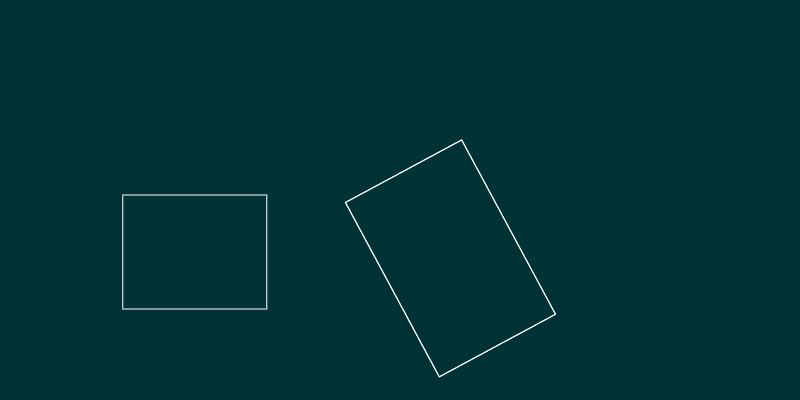
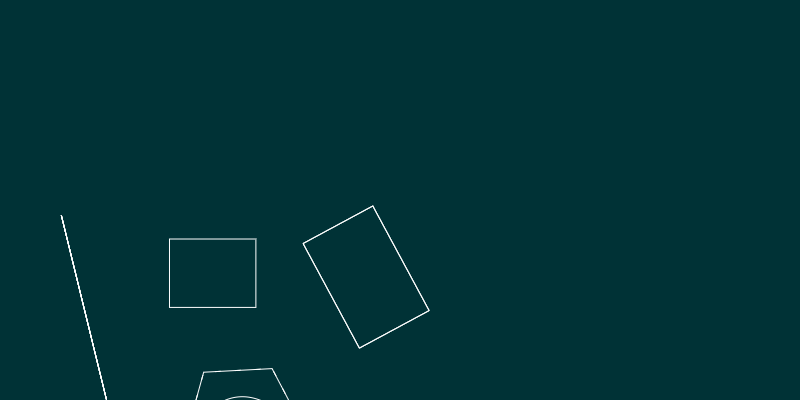
added arc, fixed routing, added crlt+s

diff --git a/front/src/engine/engine.ts b/front/src/engine/engine.ts
@@ -18,6 +18,8 @@ import { clamp, fastRounding }           from "./utils/math";
 import colors                            from "./config/colors";
 import Layer                             from "./types/Layer";
 import DXFSerializer from "./utils/DXFSerializer";
+import Arc from "./shapes/arc";
+import { Emitter } from "mitt";
 
 /**
  * Possible engine states
@@ -87,6 +89,7 @@ export default class Engine {
     public engineState:     EngineState   = EngineState.SELECT;
     public curTypeToDraw:   Shapes        = Shapes.NONE;
     private cursorIcon: any;
+    private emitter: Emitter | undefined;
     private fps                           = 0;
     private fpsMeasurements: number[]     = [];
 
@@ -103,12 +106,13 @@ export default class Engine {
      * @param width optional width of the viewport
      * @param height optonal height of the viewport
      */
-    constructor(viewport: HTMLDivElement, width?: number, height?: number) {
+    constructor(viewport: HTMLDivElement, emitter?: Emitter, width?: number, height?: number) {
         this.viewport      = viewport;
         this.canvas        = viewport.querySelector(".canvas") as HTMLCanvasElement;
         this.canvasUI      = viewport.querySelector(".canvas-ui") as HTMLCanvasElement;
         this.ctx           = this.canvas.getContext("2d", { alpha: false });
         this.ctxUI         = this.canvasUI.getContext("2d");
+        this.emitter = emitter;
 
         if (this.ctx === null || this.ctxUI === null) throw new Error("An error has occured while getting context from canvas");
         
@@ -395,6 +399,14 @@ export default class Engine {
                     this.copyBuffer = [];
                     break;
                 }
+                case "KeyS": {
+                    this.emitter?.emit("save");
+                    break;
+                }
+                case "KeyO": {
+                    this.emitter?.emit("load");
+                    break;
+                }
                 case "Equal":
                     this.scale = clamp(this.scale += 2, 3, 200);
                     break;
@@ -472,6 +484,9 @@ export default class Engine {
                     case Shapes.BEZIER:
                         this.tempShape = new Bezier();
                         break;
+                    case Shapes.ARC:
+                        this.tempShape = new Arc();
+                        break;
                     case Shapes.POLYGON: {
                         // not the most elegant solution
                         const verticies = prompt("Введите число вершин", "4");
@@ -517,29 +532,30 @@ export default class Engine {
                     this.tempShape.color = "#fff";
 
                     this.tempShape.setNodeColor(NodeColors.INACTIVE);
+                    this.layers[this.getLayerIndex].shapes.push(this.tempShape);
+                    // switch(this.curTypeToDraw) {
+                    //     case Shapes.LINE:
+                    //         this.layers[this.getLayerIndex].shapes.push(this.tempShape)
+                    //         break;
+                    //     case Shapes.RECT:
+                    //         this.layers[this.getLayerIndex].shapes.push(this.tempShape)
+                    //         break;
+                    //     case Shapes.CIRCLE:
+                    //         this.layers[this.getLayerIndex].shapes.push(this.tempShape)
+                    //         break;
+                    //     case Shapes.ELLIPSE:
+                    //         this.layers[this.getLayerIndex].shapes.push(this.tempShape)
+                    //         break;
+                    //     case Shapes.BEZIER:
+                    //         this.layers[this.getLayerIndex].shapes.push(this.tempShape)
+                    //         break;
+                    //     case Shapes.POLYGON:
+                    //         this.layers[this.getLayerIndex].shapes.push(this.tempShape)
+                    //         break;
 
-                    switch(this.curTypeToDraw) {
-                        case Shapes.LINE:
-                            this.layers[this.getLayerIndex].shapes.push(this.tempShape)
-                            break;
-                        case Shapes.RECT:
-                            this.layers[this.getLayerIndex].shapes.push(this.tempShape)
-                            break;
-                        case Shapes.CIRCLE:
-                            this.layers[this.getLayerIndex].shapes.push(this.tempShape)
-                            break;
-                        case Shapes.ELLIPSE:
-                            this.layers[this.getLayerIndex].shapes.push(this.tempShape)
-                            break;
-                        case Shapes.BEZIER:
-                            this.layers[this.getLayerIndex].shapes.push(this.tempShape)
-                            break;
-                        case Shapes.POLYGON:
-                            this.layers[this.getLayerIndex].shapes.push(this.tempShape)
-                            break;
-                        default:
-                            break;
-                    }
+                    //     default:
+                    //         break;
+                    // }
                     
                     this.tempShape = null;
                 }
@@ -946,13 +962,6 @@ export default class Engine {
         // this.ctx.restore();
 
         this.ctx.save();
-            // can't use forEach, TS is screaming abount ctx being possibly null
-            // what a bloody idiot
-            // for (const shape of this.currentLayer) {
-            //     shape.renderSelf(this.ctx);
-            //     shape.renderNodes(this.ctx);
-            // }
-
             for (const layer of this.layers) {
                 for (const shape of layer.shapes) {
                     shape.renderSelf(this.ctx, colors.get(layer.layerColor));

diff --git a/front/src/engine/shapes/arc.ts b/front/src/engine/shapes/arc.ts
@@ -8,23 +8,41 @@ export default class Arc extends Shape {
     }
 
     toDXF(drw: DXFWriter): void {
-        throw new Error("Method not implemented.");
+        // throw new Error("Method not implemented.");
+        const sv = this.nodes[0].getPosition;
+
+        const ev1 = this.nodes[1].getPosition;
+        const ev2 = this.nodes[2].getPosition;
+
+        const radius = ev1.subtract(sv).mag();
+
+        const a = ev1.subtract(sv);
+        const b = new Vec2(sv.x + 1, sv.y).subtract(sv);
+
+        const angle1 = Math.atan2(a.y, a.x);
+        const angle2 = Math.atan2(b.y, b.x);
+
+        const angle = angle1 - angle2;
+
+        const c = ev2.subtract(sv);
+        const angle3 = Math.atan2(c.y, c.x);
+        const _angle = angle1 - angle3;
+
+        drw.addArc(sv.x, sv.y, radius, angle * (180/Math.PI), (angle - _angle) * (180/Math.PI));
     }
 
     renderSelf(ctx: CanvasRenderingContext2D, color?: string) {
         if (this.nodes.length <= 1) return;
 
-        if (this.nodes.length < 3) {
+        if (this.nodes.length === 2) {
             const radius = this.nodes[0].getPosition.subtract(this.nodes[1].getPosition).mag();
 
             const sv: Vec2 = this.WorldToScreen(this.nodes[0].getPosition);
-            const mv: Vec2 = this.WorldToScreen(this.nodes[1].getPosition);
-            const ev: Vec2 = this.WorldToScreen(this.nodes[2].getPosition);
-
-            ctx.strokeStyle = this.isSelected ? "red" : color ? color : this.color;
+            const ev: Vec2 = this.WorldToScreen(this.nodes[1].getPosition);
 
             ctx.save();
                 ctx.setLineDash([5, 15]);
+                ctx.strokeStyle = this.color;
                 ctx.beginPath();
                 ctx.moveTo(sv.x, sv.y);
                 ctx.lineTo(ev.x, ev.y);
@@ -34,10 +52,53 @@ export default class Arc extends Shape {
 
             ctx.save();
                 ctx.fillStyle = "";
+                ctx.strokeStyle = this.color;
                 ctx.setLineDash([]);
                 ctx.beginPath();
                 ctx.arc(sv.x, sv.y, radius * Shape.worldScale * Shape.worldGrid, 0, 2 * Math.PI, false);
                 ctx.closePath();
+                ctx.stroke();
+            ctx.restore();
+        }
+
+        if (this.nodes.length === 3) {
+            const sv = this.WorldToScreen(this.nodes[0].getPosition);
+            const ev1 = this.WorldToScreen(this.nodes[1].getPosition);
+            const ev2 = this.WorldToScreen(this.nodes[2].getPosition);
+
+            const radius = this.nodes[1].getPosition.subtract(this.nodes[0].getPosition).mag();
+
+            const a = ev1.subtract(sv);
+            const b = new Vec2(sv.x + 1, sv.y).subtract(sv);
+
+            const angle1 = Math.atan2(a.y, a.x);
+            const angle2 = Math.atan2(b.y, b.x);
+
+            const angle = angle1 - angle2;
+
+            const c = ev2.subtract(sv);
+            const angle3 = Math.atan2(c.y, c.x);
+            const _angle = angle1 - angle3;
+
+
+            ctx.strokeStyle = this.isSelected ? "red" : color ? color : this.color;
+
+            // ctx.save();
+            //     ctx.setLineDash([5, 15]);
+            //     ctx.beginPath();
+            //     ctx.moveTo(sv.x, sv.y);
+            //     ctx.lineTo(ev1.x, ev1.y);
+            //     ctx.closePath();
+            //     ctx.stroke();
+            // ctx.restore();
+
+            ctx.save();
+                ctx.fillStyle = "";
+                ctx.setLineDash([]);
+                // ctx.beginPath();
+                ctx.moveTo(ev1.x, ev1.y);
+                ctx.arc(sv.x, sv.y, radius * Shape.worldScale * Shape.worldGrid, angle, angle - _angle, false);
+                // ctx.closePath();
                 ctx.stroke();
             ctx.restore();
         }

diff --git a/front/src/views/User/ProjectEditor.vue b/front/src/views/User/ProjectEditor.vue
@@ -235,7 +235,7 @@
         },
         mounted() {
             try {
-                this.engine = new Engine(this.$refs.viewport as HTMLDivElement);
+                this.engine = new Engine(this.$refs.viewport as HTMLDivElement, this.$emitter);
                 if (this.engine.init()) {
                     this.engine.start();
                     this.loadProject();
@@ -244,6 +244,10 @@
             } catch (err) {
                 console.error(err);
             }
+
+            this.$emitter.on("save", this.saveProject);
+            this.$emitter.on("load", this.loadProject);
+            // document.body.addEventListener("")
         },
         beforeUnmount() {
             this.engine.releaseEngine();
@@ -274,14 +278,13 @@
         },
         methods: {
             goBack() {
-                this.$router.push(`/${this.$store.getters.getUser._id}/projects`);
+                this.$router.push(`/users/${this.$store.getters.getUser._id}/projects`);
             },
             async saveProject() {
                 try {
                     const data = this.engine.save();
                     const id = this.$route.params.id;
                     const res = await axios.patch(`projects/save`, { id, data });
-                    console.log(res);
 
                     this.$flashMessage.show({
                         type: 'success',

diff --git a/front/src/views/Login.vue b/front/src/views/Login.vue
@@ -49,7 +49,7 @@
             async submitHandler() {
                  try {
                     await this.$store.dispatch("logIn", this.form);
-                    this.$router.push(`/${this.$store.getters.getUser._id}/projects`);
+                    this.$router.push(`/users/${this.$store.getters.getUser._id}/projects`);
                 } catch (err) {
                     console.error(err);
                     this.$flashMessage.show({

diff --git a/front/src/main.ts b/front/src/main.ts
@@ -62,11 +62,12 @@ router.beforeEach(async (to, from, next) => {
 });
 
 
-// so that axios doesn't eat my 4XX errors
+// so that axios doesn't eat my 4XX and 5XX errors
 axios.defaults.validateStatus = (status): boolean => {
     return true;
 }
 
+// uhh, maybe this works
 axios.interceptors.response.use((res: AxiosResponse) => {
         return res;
     },

diff --git a/front/src/router/index.ts b/front/src/router/index.ts
@@ -2,7 +2,7 @@ import { createRouter, createWebHistory, RouteRecordRaw } from 'vue-router';
 
 const routes: Array<RouteRecordRaw> = [
     {
-        path: "/:userId",
+        path: "/users/:userId",
         component: () => import("../views/User.vue"),
         children: [
             {
